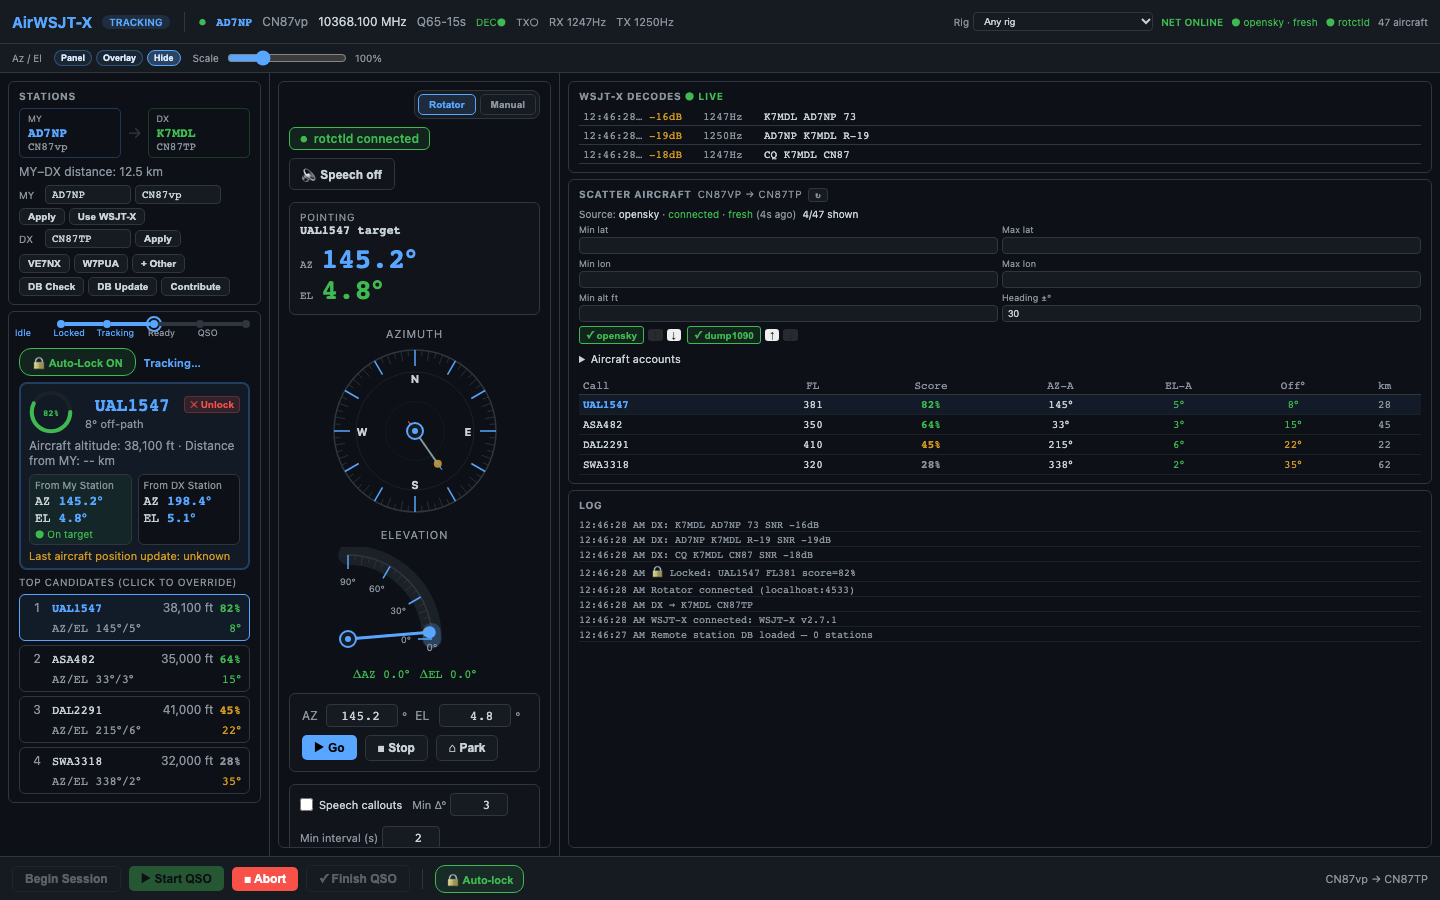
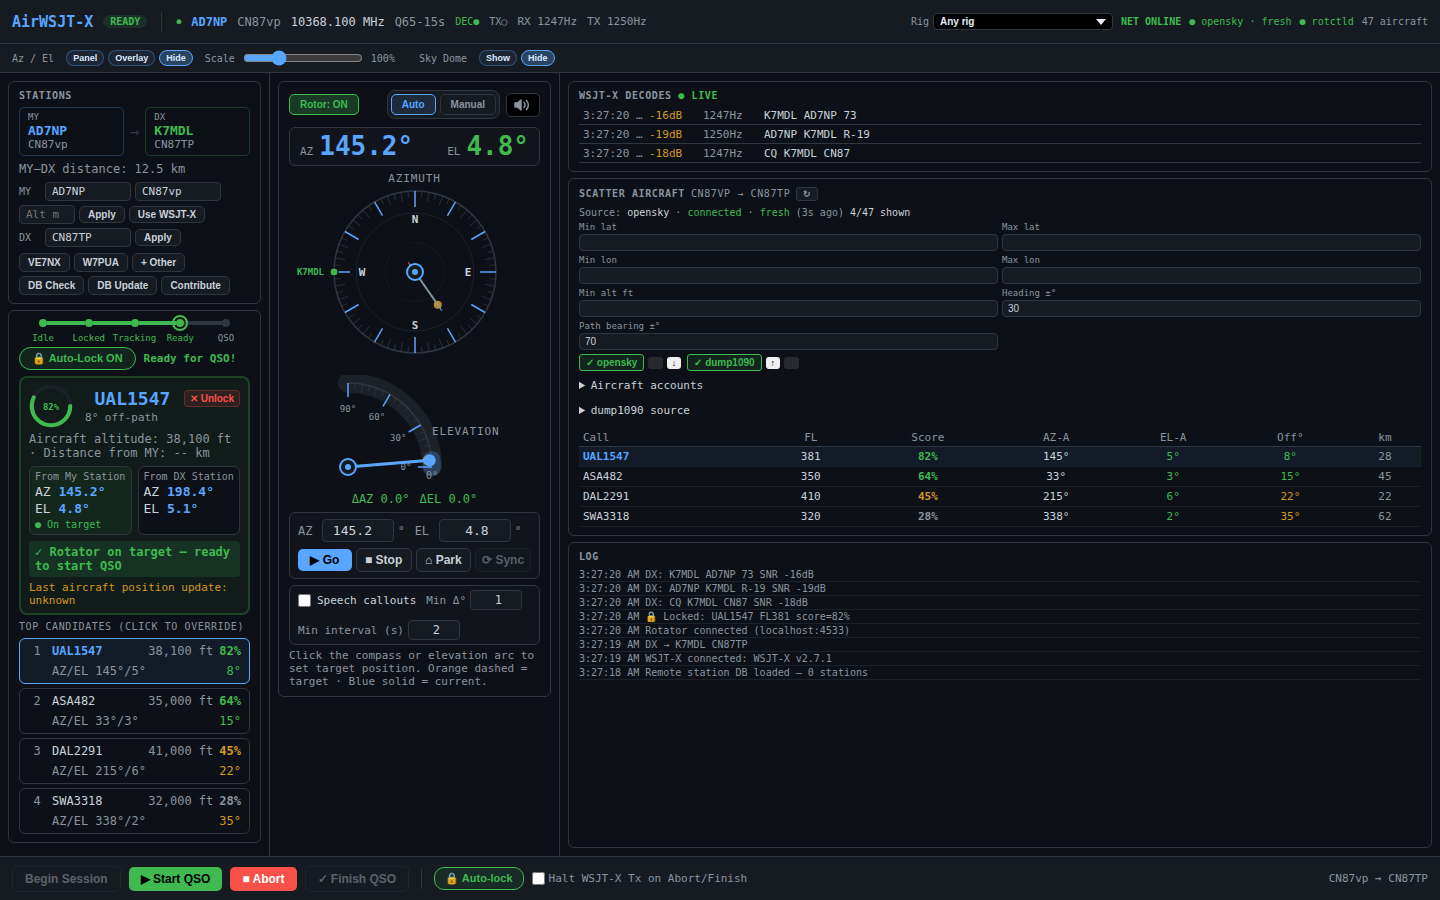
Announcement for "Lost Plane Lock",  don't stress rotor (#111)
* Update screenshots from CI

* Update screenshots from CI

* Play announcements in Auto mode even when there is no rotor connection.

* Dim Az El readouts when In Auto and there is no plane locked.  Announce "Lost Plane Lock" on loss of plane lock when speech is enabled.

* Dim Az El readouts when In Auto and there is no plane locked.  Announce "Lost Plane Lock" on loss of plane lock when speech is enabled.

* Update speech cancel e2e test for Auto-mode speech without rotator

---------

diff --git a/src/App.tsx b/src/App.tsx
@@ -547,6 +547,13 @@ export default function App() {
     localStorage.setItem(ROTATOR_SPEECH_INTERVAL_KEY, String(rotatorSpeechIntervalSec));
   }, [rotatorSpeechIntervalSec]);
 
+  // In Auto mode, keep the last locked plane's Az/El visible (greyed) after lock is lost.
+  const lastPlaneTargetRef = useRef<{ az: number; el: number } | null>(null);
+  const planeTargetValid = !!lockedPlane && Number.isFinite(lockedPlane.az_a) && Number.isFinite(lockedPlane.el_a);
+  if (lockedPlane && planeTargetValid) lastPlaneTargetRef.current = { az: lockedPlane.az_a, el: lockedPlane.el_a };
+  const autoTargetInvalid = uiMode !== "manual" && !planeTargetValid;
+  const lastPlaneTarget = lastPlaneTargetRef.current;
+
   const manualSpeechTarget = uiMode !== "manual" && lockedPlane
     && Number.isFinite(lockedPlane.az_a)
     && Number.isFinite(lockedPlane.el_a)
@@ -557,8 +564,15 @@ export default function App() {
         : null
     );
 
-  const rotatorSpeechSource = !(rotatorControlEnabled && rotatorConnected)
+  // Auto mode with the rotor off/disconnected still announces the target.
+  const rotatorSpeechSource = autoTargetInvalid
     ? null
+    : !(rotatorControlEnabled && rotatorConnected)
+    ? (
+      uiMode !== "manual" && manualSpeechTarget
+        ? { ...manualSpeechTarget, source: "manual" as const, announceFirstUpdate: true }
+        : null
+    )
     : uiMode === "manual"
     ? (
       manualSpeechTarget
@@ -617,6 +631,16 @@ export default function App() {
     rotatorSpeechIntervalSec,
     speechRecheck,
   ]);
+
+  const prevAutoLockedRef = useRef(false);
+  useEffect(() => {
+    const autoLocked = uiMode !== "manual" && planeTargetValid;
+    if (prevAutoLockedRef.current && uiMode !== "manual" && !planeTargetValid
+      && rotatorSpeechEnabled && isSpeechSupported()) {
+      speak("Lost plane lock");
+    }
+    prevAutoLockedRef.current = autoLocked;
+  }, [uiMode, planeTargetValid, rotatorSpeechEnabled]);
 
   const [controlWsjtx, setControlWsjtx] = useState<boolean>(() => localStorage.getItem("airwsjtx.controlWsjtx") === "1");
   useEffect(() => { localStorage.setItem("airwsjtx.controlWsjtx", controlWsjtx ? "1" : "0"); }, [controlWsjtx]);
@@ -856,13 +880,15 @@ export default function App() {
     });
   }
 
-  const currentAz = lockedPlane && uiMode !== "manual" ? (Number.isFinite(lockedPlane.az_a) ? lockedPlane.az_a : rotatorAz) : rotatorAz;
-  const currentEl = lockedPlane && uiMode !== "manual" ? (Number.isFinite(lockedPlane.el_a) ? lockedPlane.el_a : rotatorEl) : rotatorEl;
+  const currentAz = autoTargetInvalid && lastPlaneTarget ? lastPlaneTarget.az
+    : lockedPlane && uiMode !== "manual" ? (Number.isFinite(lockedPlane.az_a) ? lockedPlane.az_a : rotatorAz) : rotatorAz;
+  const currentEl = autoTargetInvalid && lastPlaneTarget ? lastPlaneTarget.el
+    : lockedPlane && uiMode !== "manual" ? (Number.isFinite(lockedPlane.el_a) ? lockedPlane.el_a : rotatorEl) : rotatorEl;
   const portableFontPx = Math.max(PORTABLE_MIN_FONT_PX, PORTABLE_BASE_FONT_PX * portableScale / 100);
   const rotorOn = rotatorControlEnabled && rotatorConnected;
   const lastSpeechPreviewAt = useRef(0);
   function previewSpeech() {
-    if (!isSpeechSupported() || !rotatorSpeechEnabled || !rotorOn) return;
+    if (!isSpeechSupported() || !rotatorSpeechEnabled || autoTargetInvalid || !(rotorOn || uiMode !== "manual")) return;
     const now = Date.now();
     if (now - lastSpeechPreviewAt.current < 1200) return;
     lastSpeechPreviewAt.current = now;
@@ -878,11 +904,11 @@ export default function App() {
     <div className="portable-grid" style={{ fontSize: `${portableFontPx}px` }}>
       <div className="portable-readout">
         <span className="portable-label">AZ</span>
-        <span className="portable-value">{Number.isFinite(currentAz) ? currentAz.toFixed(1) : "--.-"}°</span>
+        <span className="portable-value" style={autoTargetInvalid ? { opacity: 0.35 } : undefined}>{Number.isFinite(currentAz) ? currentAz.toFixed(1) : "--.-"}°</span>
       </div>
       <div className="portable-readout">
         <span className="portable-label">EL</span>
-        <span className="portable-value">{Number.isFinite(currentEl) ? currentEl.toFixed(1) : "--.-"}°</span>
+        <span className="portable-value" style={autoTargetInvalid ? { opacity: 0.35 } : undefined}>{Number.isFinite(currentEl) ? currentEl.toFixed(1) : "--.-"}°</span>
       </div>
     </div>
   </div>
@@ -1400,8 +1426,9 @@ export default function App() {
             </div>
             <RotatorPanel
               currentAz={rotatorAz} currentEl={rotatorEl}
-              targetAz={lockedPlane && uiMode !== "manual" ? lockedPlane.az_a : rotatorTargetAz}
-              targetEl={lockedPlane && uiMode !== "manual" ? lockedPlane.el_a : rotatorTargetEl}
+              targetAz={lockedPlane && uiMode !== "manual" ? lockedPlane.az_a : autoTargetInvalid && lastPlaneTarget ? lastPlaneTarget.az : rotatorTargetAz}
+              targetEl={lockedPlane && uiMode !== "manual" ? lockedPlane.el_a : autoTargetInvalid && lastPlaneTarget ? lastPlaneTarget.el : rotatorTargetEl}
+              targetInvalid={autoTargetInvalid}
               connected={rotatorConnected}
               dxAz={dxBearing}
               dxLabel={dxCall}

diff --git a/e2e/speech-callouts.spec.ts b/e2e/speech-callouts.spec.ts
@@ -144,31 +144,24 @@ test.describe("Speech callouts — rotator panel", () => {
     expect(calls).toEqual([]);
   });
 
-  test("speech synthesis cancel is called before each speak", async ({ page }) => {
+  test("speech works in Auto mode with a locked plane and the rotator disconnected", async ({ page }) => {
     await page.goto("/");
-    // Simulate rotator connected + movement beyond threshold
-    await page.evaluate(() => {
+    const lock = (az: number, el: number, event = "plane_locked") => page.evaluate(({ az, el, event }) => {
       const emit = (window as unknown as Record<string, (e: string, p: string) => void>).__tauriMockEmit;
-      if (!emit) return;
-      emit("sidecar-message", JSON.stringify({ event: "rotator_connected", data: { host: "127.0.0.1", port: 4533 } }));
-      // First position (establishes baseline, no speak)
-      emit("sidecar-message", JSON.stringify({ event: "rotator_position", data: { azimuth: 90, elevation: 45 } }));
-    });
-    // Wait for state to settle
-    await page.waitForTimeout(100);
-    // Move by more than threshold + interval
-    await page.evaluate(() => {
-      const emit = (window as unknown as Record<string, (e: string, p: string) => void>).__tauriMockEmit;
-      if (!emit) return;
-      emit("sidecar-message", JSON.stringify({ event: "rotator_position", data: { azimuth: 100, elevation: 50 } }));
-    });
-    await page.waitForTimeout(2200); // exceed 2s interval
-    await page.evaluate(() => {
-      const emit = (window as unknown as Record<string, (e: string, p: string) => void>).__tauriMockEmit;
-      if (!emit) return;
-      emit("sidecar-message", JSON.stringify({ event: "rotator_position", data: { azimuth: 115, elevation: 55 } }));
-    });
-    await page.waitForTimeout(200);
+      emit("sidecar-message", JSON.stringify({
+        event,
+        data: {
+          icao24: "abc123", callsign: "TEST123", altitude_ft: 35000, az_a: az, el_a: el,
+          az_b: 180, el_b: 5, scatter_score: 0.42, off_path_deg: 2, state: "tracking",
+        },
+      }));
+    }, { az, el, event });
+    await lock(90, 45);
+    await expect.poll(() => page.evaluate(() => (window as unknown as { __speechCalls: string[] }).__speechCalls)).toContain("Azimuth 90, Elevation 45");
+    // A move beyond the threshold is announced once the interval has passed, with no rotator connected.
+    await page.waitForTimeout(2200);
+    await lock(115, 55, "plane_tracking");
+    await expect.poll(() => page.evaluate(() => (window as unknown as { __speechCalls: string[] }).__speechCalls)).toContain("Azimuth 115, Elevation 55");
     const cancelCount = await page.evaluate(() =>
       (window as unknown as { __speechCancelCount: () => number }).__speechCancelCount()
     );

diff --git a/src/RotatorPanel.tsx b/src/RotatorPanel.tsx
@@ -6,6 +6,7 @@ interface RotatorPanelProps {
   currentEl: number;
   targetAz: number | null;
   targetEl: number | null;
+  targetInvalid?: boolean;
   connected: boolean;
   dxAz?: number | null;
   dxLabel?: string | null;
@@ -334,8 +335,7 @@ function ElevationArc({
 // ─── Main RotatorPanel ────────────────────────────────────────────────────────
 
 export default function RotatorPanel({
-  currentAz, currentEl, targetAz, targetEl,
-  connected, dxAz = null, dxLabel = null,
+  currentAz, currentEl, targetAz, targetEl, targetInvalid = false, connected, dxAz = null, dxLabel = null,
   speechEnabled,
   speechThresholdDeg,
   speechIntervalSec,
@@ -431,6 +431,8 @@ export default function RotatorPanel({
         background: isManualMode ? "rgba(88,166,255,0.08)" : "rgba(255,255,255,0.02)",
         borderRadius: 6,
         border: isManualMode ? "1px solid #58a6ff44" : "1px solid #30363d",
+        opacity: targetInvalid ? 0.35 : 1,
+        filter: targetInvalid ? "grayscale(1)" : undefined,
       }}>
         <div style={{
           display: "flex",
@@ -465,9 +467,7 @@ export default function RotatorPanel({
       {!isManualMode && (
         <>
           {/* Dials */}
-          <div style={{ display: "flex", flexDirection: "column", gap: 4, alignItems: "center" }}>
-
-            {/* Azimuth compass */}
+          <div style={{ display: "flex", flexDirection: "column", gap: 4, alignItems: "center", opacity: targetInvalid ? 0.35 : 1, filter: targetInvalid ? "grayscale(1)" : undefined }}>
             <div style={{ display: "flex", flexDirection: "column", alignItems: "center", gap: 2 }}>
               <div style={{ fontSize: 11, color: "#8b949e", textTransform: "uppercase", letterSpacing: "0.08em" }}>
                 Azimuth
@@ -486,7 +486,7 @@ export default function RotatorPanel({
             </div>
           </div>
 
-          {(azErr !== null || elErr !== null) && (
+          {!targetInvalid && (azErr !== null || elErr !== null) && (
             <div style={{
               display: "flex",
               gap: 10,

diff --git a/CHANGELOG.md b/CHANGELOG.md
@@ -1,5 +1,14 @@
 # Changelog
 
+## Unreleased
+
+### Added
+- Auto mode speaks "Lost plane lock" when the locked aircraft is lost.
+- Speech callouts in Auto mode now announce the locked aircraft's Az/El even when the rotator is off or not connected.
+
+### Changed
+- On loss of plane lock in Auto mode, the last known Az/El is kept (no reset to 0) and dimmed in the display panel, overlay, and rotor panel to show it is not driven by current tracking data. Speech callouts pause and no new rotator commands are sent until the next plane is locked, avoiding rotor churn (#111).
+
 ## 0.3.24
 
 ### Fixed
